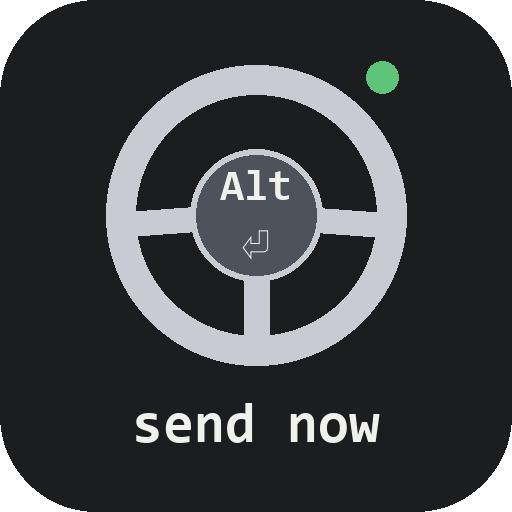
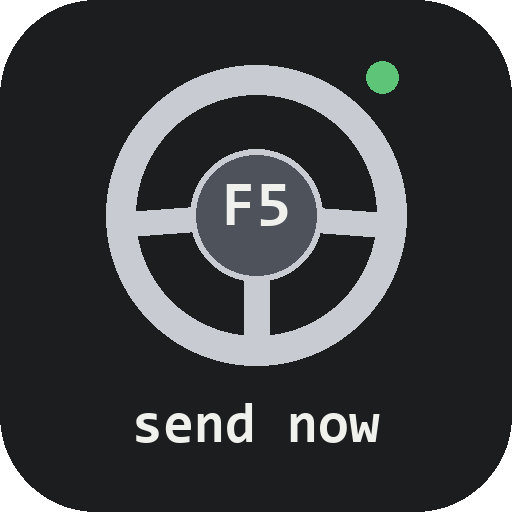
Steering Wheel 0.1.1: back to F5 (Alt+Enter is full screen in Windows Terminal)
Claude-Session: https://claude.ai/code/session_018XJ9dnwqoFNwsKfDatDZbD

Changed region(s): [[0.4375, 0.3125, 0.5625, 0.5]]

diff --git a/plugins/steering-wheel/hooks/register.ts b/plugins/steering-wheel/hooks/register.ts
@@ -4,16 +4,17 @@ import type { Register } from 'claude-code'
 // Ignition the same day, his words: "rename ignition to steering wheel because GPT uses steer".
 // Ryan, 3 Oct 2026: "i rewally dislike ctrl x + ctrl s
 // to send" · "I want it to say tap ESC to send now" · "if it doesnt work for everyoine we
-// cant use it". He picked F5, then Alt+Enter; ESC stayed the stop button.
+// cant use it". He picked F5, tried Alt+Enter, went back to F5; ESC stayed the stop button.
 //
 // A mod cannot bind keys. The key lives in each person's own ~/.claude/keybindings.json,
-// so /steering-wheel writes Alt+Enter there, merged, and LEAVES the default chord on as the fallback
-// for a terminal that keeps Alt+Enter for itself. The hint names whatever key the file says now,
+// so /steering-wheel writes F5 there, merged, and LEAVES the default chord on as the fallback
+// for a terminal that never sends F5. The hint names whatever key the file says now,
 // read off the file, never typed here.
 
 const ACTION = 'chat:sendNow'
-// 🔁 Alt+Enter, his words the same evening: "make it alt enter by default because im not sure f5 works well".
-const KEY = 'alt+enter'
+// 🔁 Alt+Enter for one version, then back: his words the same evening, "it make me go full
+// screen sometimes" and "lets put it back to F5". Windows Terminal keeps Alt+Enter for itself.
+const KEY = 'f5'
 const DEFAULT_CHORD = 'ctrl+x ctrl+s'
 
 type Block = { context: string; bindings: Record<string, string | null> }
@@ -83,7 +84,7 @@ export const register: Register = on => {
     const path = `${home}/.claude/keybindings.json`
     const text = (await $.fs.exists(path)) ? await $.fs.read(path) : null
     key = sendKey(parse(text)) ?? DEFAULT_CHORD
-    $.command.register({ name: 'steering-wheel', description: 'Set Alt+Enter to send a waiting message now' })
+    $.command.register({ name: 'steering-wheel', description: 'Set F5 to send a waiting message now' })
     return next(e)
   })
 
@@ -93,11 +94,11 @@ export const register: Register = on => {
     const before = parse((await $.fs.exists(path)) ? await $.fs.read(path) : null)
     if (sendKey(before) === KEY) {
       key = KEY
-      return { text: `Alt+Enter already sends now. Nothing changed. (${path})` }
+      return { text: `F5 already sends now. Nothing changed. (${path})` }
     }
     await $.fs.write(path, JSON.stringify(withKey(before), null, 2) + '\n')
     key = KEY
-    return { text: `Alt+Enter now sends a waiting message right away. Ctrl+X Ctrl+S still works too, for a terminal that keeps Alt+Enter for itself (Windows Terminal uses it for full screen). (${path})` }
+    return { text: `F5 now sends a waiting message right away. Ctrl+X Ctrl+S still works too, for a terminal that never sends F5. (${path})` }
   })
 
   on('ui.render', { component: 'PromptHint' }, ($, e, next) => {

diff --git a/plugins/steering-wheel/tests/steering-wheel.test.ts b/plugins/steering-wheel/tests/steering-wheel.test.ts
@@ -2,7 +2,7 @@ import { test, expect } from 'claude-code/testing'
 import { pretty, rewrite, sendKey, withKey } from '../hooks/register'
 
 test('the hint names the key and says tap', () => {
-  expect(rewrite('esc to interrupt · ctrl+x ctrl+s to send now', 'alt+enter')).toBe('esc to interrupt · tap Alt+Enter to send now')
+  expect(rewrite('esc to interrupt · ctrl+x ctrl+s to send now', 'f5')).toBe('esc to interrupt · tap F5 to send now')
   expect(rewrite('ctrl+enter to send now', 'f5')).toBe('tap F5 to send now')
   expect(rewrite('? for shortcuts', 'f5')).toBe('? for shortcuts')
 })
@@ -19,6 +19,6 @@ test('setting the key keeps every other binding and leaves the default on', () =
   const out = withKey({ bindings: [{ context: 'Global', bindings: { 'ctrl+t': null } }] })
   expect(out.bindings[0].bindings['ctrl+t']).toBe(null)
   const chat = out.bindings.find(b => b.context === 'Chat')!
-  expect(chat.bindings['alt+enter']).toBe('chat:sendNow')
+  expect(chat.bindings.f5).toBe('chat:sendNow')
   expect('ctrl+x ctrl+s' in chat.bindings).toBe(false)
 })

diff --git a/plugins/steering-wheel/README.md b/plugins/steering-wheel/README.md
@@ -2,17 +2,18 @@
 
 Steer Claude mid-turn with one key.
 
-When Claude is working and you have typed your next message, Claude Code holds it until the turn ends. To send it right away and steer the work, the default is a two-step chord: Ctrl+X, then Ctrl+S. Steering Wheel makes it one key: Alt+Enter.
+When Claude is working and you have typed your next message, Claude Code holds it until the turn ends. To send it right away and steer the work, the default is a two-step chord: Ctrl+X, then Ctrl+S. Steering Wheel makes it one key: F5.
 
 ## What it does
 
-- `/steering-wheel` adds Alt+Enter to your own `~/.claude/keybindings.json`, so Alt+Enter sends a waiting message now. Everything else in that file stays as you had it, and the old chord keeps working.
-- The hint under the prompt then reads **tap Alt+Enter to send now**. The key it names is read from your keybindings file, so if you change the key yourself, the hint follows.
+- `/steering-wheel` adds F5 to your own `~/.claude/keybindings.json`, so F5 sends a waiting message now. Everything else in that file stays as you had it, and the old chord keeps working, because some terminals never pass F5 through.
+- The hint under the prompt then reads **tap F5 to send now**. The key it names is read from your keybindings file, so if you change the key yourself, the hint follows.
 
 ## Notes
 
 - A plugin cannot bind keys by itself. Your keys live in your own keybindings file, which is why Steering Wheel writes there only when you run `/steering-wheel`.
-- Windows Terminal uses Alt+Enter for full screen by default, so there it may never reach Claude Code. Ctrl+X Ctrl+S and Ctrl+Enter still send now, or you can free Alt+Enter in Windows Terminal's settings.
+- Why not Alt+Enter: Windows Terminal uses it for full screen, so it never reaches Claude Code there. Version 0.1.0 used it; 0.1.1 is back on F5.
 - Esc stays the stop button.
+- If F5 does nothing in your terminal, Ctrl+X Ctrl+S and Ctrl+Enter still send now.
 
 MIT licensed. Made by Rostech.
